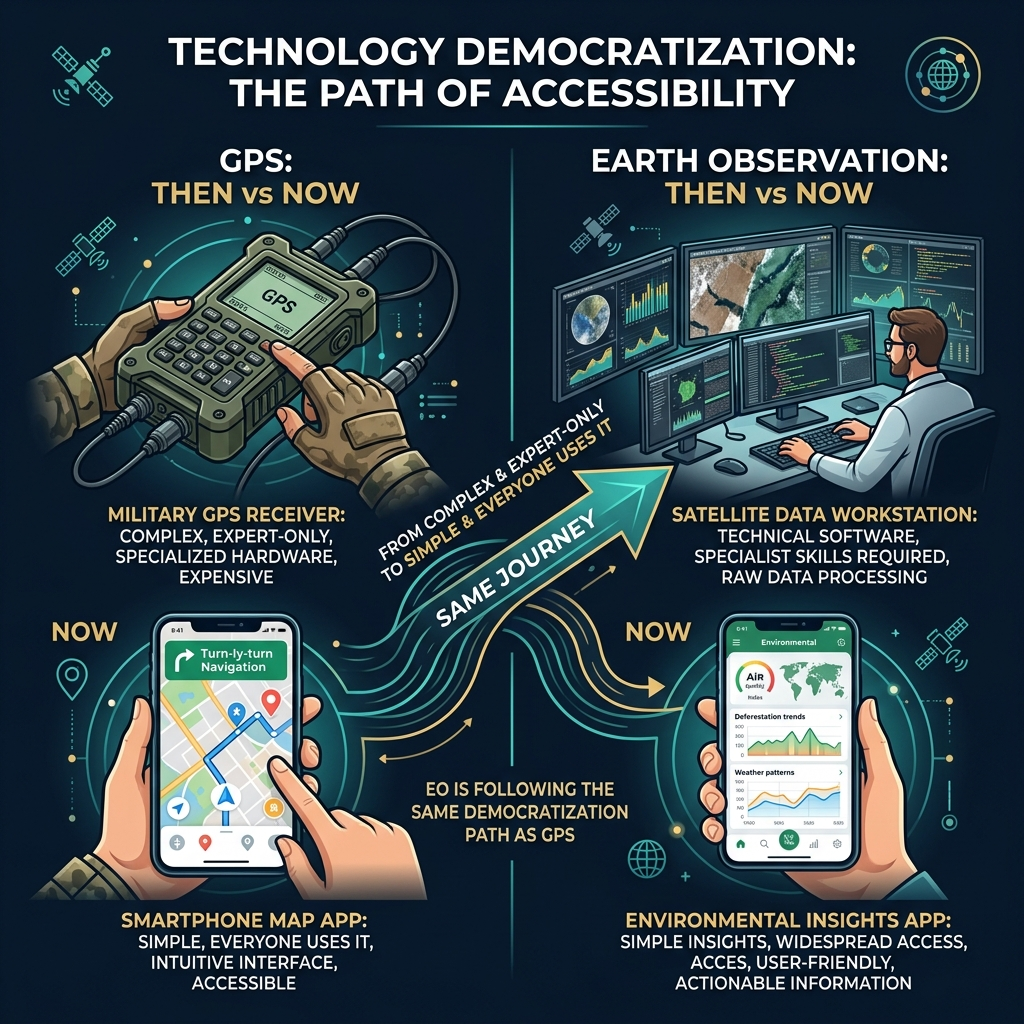
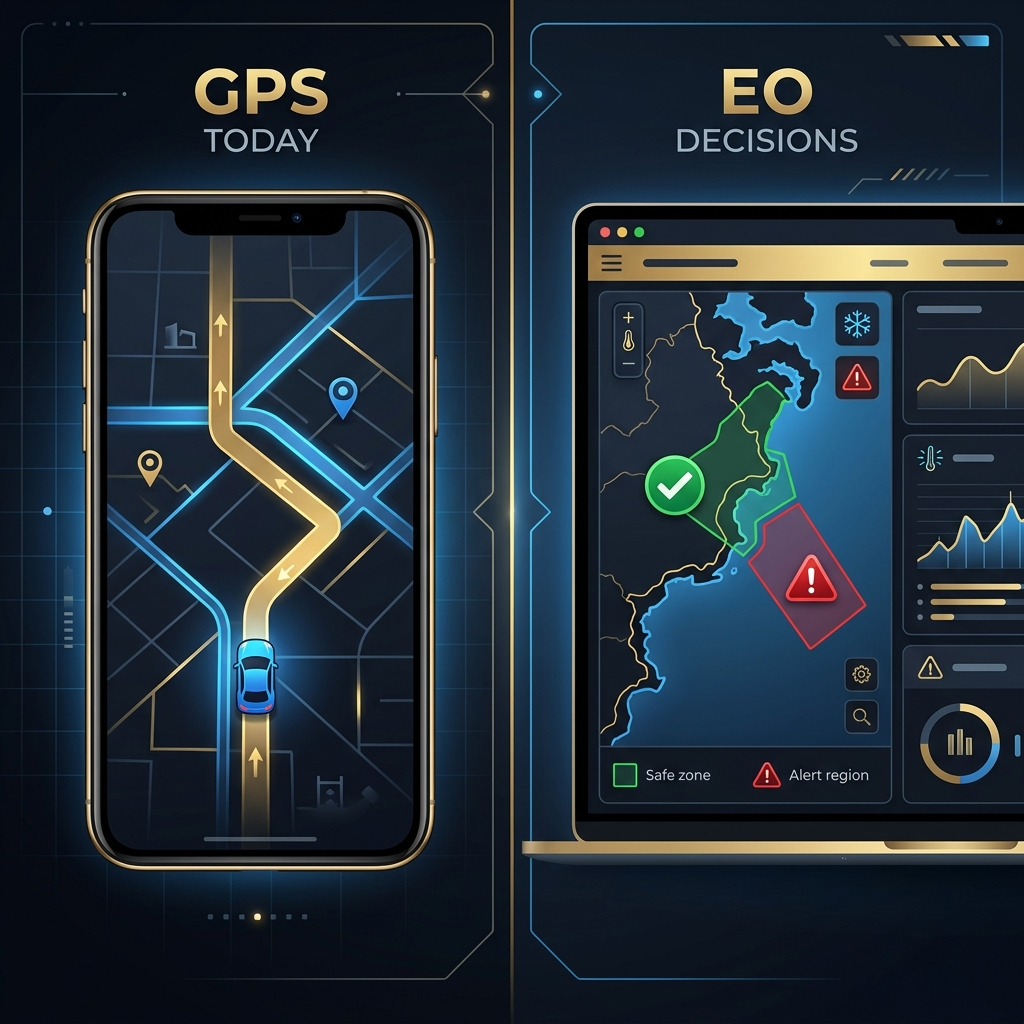
Factory 2026: update Slide 13 with new analogy image and enable zoom

diff --git a/terra.html b/terra.html
@@ -838,8 +838,11 @@
                                 Public planners do not need to understand satellite orbits or band reflectance. They need the equivalent of a navigation app: a clean dashboard showing exactly where water stress, erosion, or pollution is happening.
                             </p>
                         </div>
-                        <div style="display: flex; justify-content: center; align-items: center;">
-                            <img src="images/gps-eo-analogy.png" alt="GPS vs Earth Observation Analogy Graphic" class="slide-image">
+                        <div style="display: flex; justify-content: center; align-items: center; position: relative; width: 100%;">
+                            <img src="images/gps-eo-analogy.png" alt="GPS vs Earth Observation Analogy Graphic" class="slide-image clickable-image" onclick="openLightbox(this.src, 'The GPS Analogy - Standardizing Earth Observation data into direct dashboard decisions')" style="max-height: 320px; width: 100%; object-fit: contain; border-radius: var(--radius); border: 1px solid var(--dark-border);">
+                            <span style="position: absolute; bottom: 10px; right: 10px; background: rgba(0,0,0,0.75); color: var(--gold-light); font-size: 0.7rem; padding: 2px 8px; border-radius: 4px; border: 1px solid rgba(201,168,76,0.3); pointer-events: none; display: flex; align-items: center; gap: 0.3rem;">
+                                <span>🔍 Click to Zoom</span>
+                            </span>
                         </div>
                     </div>
                 </div>